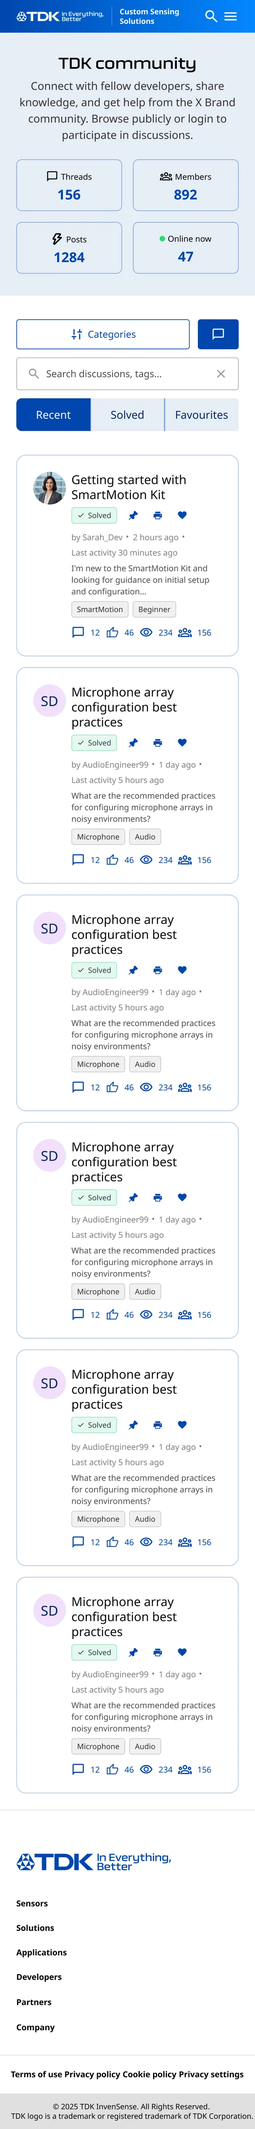
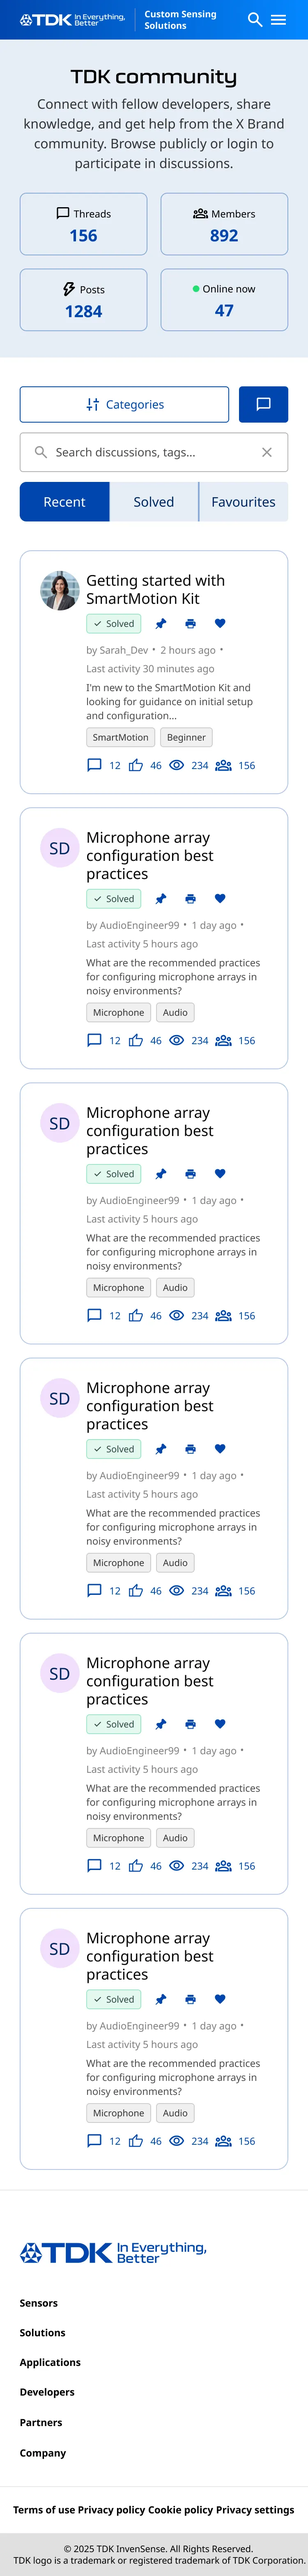
Draw every screenshot at its own size, and correct the screen count
The phone screens were being upscaled, worst of all on the product page,
which was drawn at 1240 from a 620px file: a straight 2x blow-up, and it
looked like one.

Two fixes. The phone artwork is re-exported at its native 750, and every
screenshot now carries its own width as a cap, so nothing is ever drawn
larger than the file behind it. Phone screens cap at 390, a phone's own
width, which means a retina screen gets a true 2x image and everyone else
gets a phone-sized phone rather than a poster.

Side-by-side pairs now take their column widths from the artwork, so a
phone next to a desktop reads as a phone instead of as an equal half. A
lone phone centres with its caption rather than stranding it against a
wall of white.

The study also claimed five templates. Five is how many are shown; the
redesign ran to more than thirty screens at three breakpoints. The stat
is corrected and two places now say outright that this is a selection,
with the live site named as the only place to see all of it.

Typography names the real faces: Obvia Expanded for headings, Noto Sans
for text.

Claude-Session: https://claude.ai/code/session_01GRCUht8Xs69ANeh7eZUP1Q

diff --git a/assets/js/data.js b/assets/js/data.js
@@ -342,9 +342,12 @@ const PROJECTS = [
       {
         kind: 'text',
         title: 'Wireframes: structure before surface',
+        note: 'What follows is a selection, not the set.',
+        noteArt: 'arrow-loop',
         body: [
           'Every page was resolved in greyscale first. No colour, no photography, no brand: just the order of the information and the weight each block carries. It is much easier to argue about whether the stats band should sit above the applications grid when nothing on the page is pretty enough to defend on other grounds.',
-          'These went through several rounds with the client and through usability testing before a single colour was applied.'
+          'These went through several rounds with the client and through usability testing before a single colour was applied.',
+          'The redesign ran to more than thirty screens across the site, at three breakpoints each. What is shown from here on is a handful of the templates that carry the most of the thinking: the homepage, the two application layouts, product detail and the developer community. The whole thing is on the live site, linked at the end.'
         ]
       },
       { kind: 'full', src: 'assets/img/projects/tdk/wf-home.webp', caption: 'Homepage wireframe: hero, proof, application discovery, role selection, sensor selector', frame: 'plain', long: true },
@@ -369,14 +372,14 @@ const PROJECTS = [
       {
         kind: 'typescale',
         title: 'Typography',
-        note: 'Two grotesques from the TDK brand set: a geometric face for display, a neutral one for text. The sizes below are the desktop scale as it shipped, at 1440. Specimens here are set in the portfolio’s own fallback stack, so what you are judging is the scale and the weight relationships, not the letterforms.',
+        note: 'Two faces. Obvia Expanded carries the headings: a wide geometric with enough character to hold a page that is otherwise all specification. Noto Sans does everything that has to be read rather than scanned, and it covers the scripts a global catalogue needs. Sizes below are the desktop scale as it shipped, at 1440. The specimens are set in the portfolio’s own stack, so what you are judging here is the scale and the weight relationships, not the letterforms.',
         items: [
-          { role: 'Display', spec: '44 / 56 · 600', px: 44, weight: 600, lh: 1.25, sample: 'Applications powered by smart sensors' },
-          { role: 'Section heading', spec: '30 / 40 · 700', px: 30, weight: 700, lh: 1.3, sample: 'Driving measurable success' },
-          { role: 'Sub heading', spec: '20 / 28 · 700', px: 20, weight: 700, lh: 1.35, sample: 'Product spotlight' },
-          { role: 'Card title', spec: '16 / 24 · 700', px: 16, weight: 700, lh: 1.4, sample: 'InvenSense ICM-42688-P' },
-          { role: 'Body', spec: '14 / 22 · 400', px: 14, weight: 400, lh: 1.6, sample: 'A six-axis MEMS motion sensor family with the world’s first BalancedGyro technology and lowest power consumption.' },
-          { role: 'Label and chip', spec: '12 / 16 · 600', px: 12, weight: 600, lh: 1.4, sample: 'Recommended sensors' }
+          { role: 'Display', spec: 'Obvia Expanded · 44 / 56 · 600', px: 44, weight: 600, lh: 1.25, sample: 'Applications powered by smart sensors' },
+          { role: 'Section heading', spec: 'Obvia Expanded · 30 / 40 · 700', px: 30, weight: 700, lh: 1.3, sample: 'Driving measurable success' },
+          { role: 'Sub heading', spec: 'Obvia Expanded · 20 / 28 · 700', px: 20, weight: 700, lh: 1.35, sample: 'Product spotlight' },
+          { role: 'Card title', spec: 'Noto Sans · 16 / 24 · 700', px: 16, weight: 700, lh: 1.4, sample: 'InvenSense ICM-42688-P' },
+          { role: 'Body', spec: 'Noto Sans · 14 / 22 · 400', px: 14, weight: 400, lh: 1.6, sample: 'A six-axis MEMS motion sensor family with the world’s first BalancedGyro technology and lowest power consumption.' },
+          { role: 'Label and chip', spec: 'Noto Sans · 12 / 16 · 600', px: 12, weight: 600, lh: 1.4, sample: 'Recommended sensors' }
         ]
       },
       {
@@ -485,7 +488,7 @@ const PROJECTS = [
         kind: 'duo',
         items: [
           { src: 'assets/img/projects/tdk/ui-applications-desktop.webp', caption: 'Applications landing at 1440' },
-          { src: 'assets/img/projects/tdk/ui-applications-mobile.webp', caption: 'The same page at 375: grid becomes carousel, buttons go full width' }
+          { src: 'assets/img/projects/tdk/ui-applications-mobile.webp', device: 'mobile', caption: 'The same page at 375: grid becomes carousel, buttons go full width' }
         ],
         long: true
       },
@@ -493,7 +496,7 @@ const PROJECTS = [
         kind: 'duo',
         items: [
           { src: 'assets/img/projects/tdk/ui-application-detail-desktop.webp', caption: 'Application detail at 1440: one application, end to end' },
-          { src: 'assets/img/projects/tdk/ui-application-detail-mobile.webp', caption: 'Application detail at 375' }
+          { src: 'assets/img/projects/tdk/ui-application-detail-mobile.webp', device: 'mobile', caption: 'Application detail at 375' }
         ],
         long: true
       },
@@ -501,11 +504,11 @@ const PROJECTS = [
         kind: 'duo',
         items: [
           { src: 'assets/img/projects/tdk/ui-community-desktop.webp', caption: 'Developer community at 1440: filter rail, thread list, solved state' },
-          { src: 'assets/img/projects/tdk/ui-community-mobile.webp', caption: 'Community at 375: the rail collapses into a filter control' }
+          { src: 'assets/img/projects/tdk/ui-community-mobile.webp', device: 'mobile', caption: 'Community at 375: the rail collapses into a filter control' }
         ],
         long: true
       },
-      { kind: 'full', src: 'assets/img/projects/tdk/ui-product-mobile.webp', caption: 'Product detail at 375: variants, specs, features, documentation and support, in one scroll', frame: 'plain', long: true },
+      { kind: 'full', src: 'assets/img/projects/tdk/ui-product-mobile.webp', device: 'mobile', caption: 'Product detail at 375: variants, specs, features, documentation and support, in one scroll', long: true },
 
       /* ---------- decisions ---------- */
       {
@@ -524,7 +527,7 @@ const PROJECTS = [
       {
         kind: 'stats',
         items: [
-          { figure: '5', label: 'templates redesigned end to end' },
+          { figure: '30+', label: 'screens designed across the site' },
           { figure: '3', label: 'breakpoints drawn, not derived' },
           { figure: '8', label: 'months, delivered ahead of schedule' }
         ]
@@ -536,7 +539,7 @@ const PROJECTS = [
         kind: 'live',
         eyebrow: 'It shipped',
         title: 'See it in the wild',
-        body: 'The redesign is live. The structure, the component library and the responsive behaviour described above are all running in production.',
+        body: 'The redesign is live, and it is the only place to see all of it. This case study shows a handful of templates out of more than thirty screens; the structure, the component library and the responsive behaviour described above are all running in production.',
         label: 'Open invensense.tdk.com',
         href: 'https://www.invensense.tdk.com/en-us'
       }

diff --git a/assets/js/img-sizes.js b/assets/js/img-sizes.js
@@ -1,2 +1,2 @@
 /* generated by scripts/image_sizes.py — intrinsic sizes, so lazy images reserve their box */
-window.IMG_SIZES = {"assets/img/clients/abbott.png":[640,161],"assets/img/clients/cea.png":[640,131],"assets/img/clients/disney-store.png":[640,178],"assets/img/clients/onmed.png":[500,148],"assets/img/clients/parle.png":[200,88],"assets/img/clients/popular.png":[454,84],"assets/img/covers/disney-store.webp":[1600,900],"assets/img/covers/pregnancy-app.webp":[1600,900],"assets/img/covers/tdk-invensense.webp":[1600,900],"assets/img/favicon.png":[128,128],"assets/img/life/colouring-book.webp":[900,1200],"assets/img/life/digital-illustration.webp":[1155,1200],"assets/img/life/event-install.webp":[1200,900],"assets/img/life/framed-portraits.webp":[1200,900],"assets/img/life/mountains.webp":[1200,900],"assets/img/life/muskan-bio.webp":[825,1100],"assets/img/life/painting-signage.webp":[900,1200],"assets/img/life/vacation-sign.webp":[900,1200],"assets/img/projects/capshift-01.jpg":[1440,900],"assets/img/projects/capshift-02.jpg":[1440,900],"assets/img/projects/capshift-03.jpg":[1440,900],"assets/img/projects/capshift-04.jpg":[1440,900],"assets/img/projects/mama-01.jpg":[1500,1009],"assets/img/projects/mama-02.jpg":[1500,842],"assets/img/projects/mama-03.jpg":[1500,842],"assets/img/projects/mama-04.jpg":[1300,1657],"assets/img/projects/mama-05.jpg":[390,2497],"assets/img/projects/mama-06.jpg":[390,1622],"assets/img/projects/mama-07.jpg":[390,1333],"assets/img/projects/mama-08.jpg":[390,844],"assets/img/projects/mama-09.jpg":[390,844],"assets/img/projects/parle-01.jpg":[700,1555],"assets/img/projects/parle-02.jpg":[700,1555],"assets/img/projects/parle-03.jpg":[600,1333],"assets/img/projects/parle-04.jpg":[700,1555],"assets/img/projects/parle-05.jpg":[700,1555],"assets/img/projects/popular-01.jpg":[700,1514],"assets/img/projects/popular-02.jpg":[700,1514],"assets/img/projects/popular-03.jpg":[700,1514],"assets/img/projects/popular-04.jpg":[700,1514],"assets/img/projects/popular-05.jpg":[700,1514],"assets/img/projects/tdk/ds-badges.webp":[854,944],"assets/img/projects/tdk/ds-buttons.webp":[940,2788],"assets/img/projects/tdk/ds-checkboxes.webp":[844,1324],"assets/img/projects/tdk/ds-homepage-components.webp":[792,1868],"assets/img/projects/tdk/ds-iconography.webp":[980,1597],"assets/img/projects/tdk/ds-microinteractions.webp":[1042,470],"assets/img/projects/tdk/ds-textinput.webp":[980,1239],"assets/img/projects/tdk/ui-application-detail-desktop.webp":[1240,7683],"assets/img/projects/tdk/ui-application-detail-mobile.webp":[620,11691],"assets/img/projects/tdk/ui-applications-desktop.webp":[1240,5194],"assets/img/projects/tdk/ui-applications-mobile.webp":[620,7207],"assets/img/projects/tdk/ui-community-desktop.webp":[1240,2773],"assets/img/projects/tdk/ui-community-mobile.webp":[620,5170],"assets/img/projects/tdk/ui-product-mobile.webp":[620,11978],"assets/img/projects/tdk/wf-application-detail.webp":[1080,8341],"assets/img/projects/tdk/wf-applications.webp":[1080,5314],"assets/img/projects/tdk/wf-community.webp":[1080,2413],"assets/img/projects/tdk/wf-home.webp":[1080,3799],"assets/img/projects/tdk/wf-product.webp":[1080,5564]};
+window.IMG_SIZES = {"assets/img/clients/abbott.png":[640,161],"assets/img/clients/cea.png":[640,131],"assets/img/clients/disney-store.png":[640,178],"assets/img/clients/onmed.png":[500,148],"assets/img/clients/parle.png":[200,88],"assets/img/clients/popular.png":[454,84],"assets/img/covers/disney-store.webp":[1600,900],"assets/img/covers/pregnancy-app.webp":[1600,900],"assets/img/covers/tdk-invensense.webp":[1600,900],"assets/img/favicon.png":[128,128],"assets/img/life/colouring-book.webp":[900,1200],"assets/img/life/digital-illustration.webp":[1155,1200],"assets/img/life/event-install.webp":[1200,900],"assets/img/life/framed-portraits.webp":[1200,900],"assets/img/life/mountains.webp":[1200,900],"assets/img/life/muskan-bio.webp":[825,1100],"assets/img/life/painting-signage.webp":[900,1200],"assets/img/life/vacation-sign.webp":[900,1200],"assets/img/projects/capshift-01.jpg":[1440,900],"assets/img/projects/capshift-02.jpg":[1440,900],"assets/img/projects/capshift-03.jpg":[1440,900],"assets/img/projects/capshift-04.jpg":[1440,900],"assets/img/projects/mama-01.jpg":[1500,1009],"assets/img/projects/mama-02.jpg":[1500,842],"assets/img/projects/mama-03.jpg":[1500,842],"assets/img/projects/mama-04.jpg":[1300,1657],"assets/img/projects/mama-05.jpg":[390,2497],"assets/img/projects/mama-06.jpg":[390,1622],"assets/img/projects/mama-07.jpg":[390,1333],"assets/img/projects/mama-08.jpg":[390,844],"assets/img/projects/mama-09.jpg":[390,844],"assets/img/projects/parle-01.jpg":[700,1555],"assets/img/projects/parle-02.jpg":[700,1555],"assets/img/projects/parle-03.jpg":[600,1333],"assets/img/projects/parle-04.jpg":[700,1555],"assets/img/projects/parle-05.jpg":[700,1555],"assets/img/projects/popular-01.jpg":[700,1514],"assets/img/projects/popular-02.jpg":[700,1514],"assets/img/projects/popular-03.jpg":[700,1514],"assets/img/projects/popular-04.jpg":[700,1514],"assets/img/projects/popular-05.jpg":[700,1514],"assets/img/projects/tdk/ds-badges.webp":[854,944],"assets/img/projects/tdk/ds-buttons.webp":[940,2788],"assets/img/projects/tdk/ds-checkboxes.webp":[844,1324],"assets/img/projects/tdk/ds-homepage-components.webp":[792,1868],"assets/img/projects/tdk/ds-iconography.webp":[980,1597],"assets/img/projects/tdk/ds-microinteractions.webp":[1042,470],"assets/img/projects/tdk/ds-textinput.webp":[980,1239],"assets/img/projects/tdk/ui-application-detail-desktop.webp":[1240,7683],"assets/img/projects/tdk/ui-application-detail-mobile.webp":[750,14142],"assets/img/projects/tdk/ui-applications-desktop.webp":[1240,5194],"assets/img/projects/tdk/ui-applications-mobile.webp":[750,8718],"assets/img/projects/tdk/ui-community-desktop.webp":[1240,2773],"assets/img/projects/tdk/ui-community-mobile.webp":[750,6254],"assets/img/projects/tdk/ui-product-mobile.webp":[750,14489],"assets/img/projects/tdk/wf-application-detail.webp":[1080,8341],"assets/img/projects/tdk/wf-applications.webp":[1080,5314],"assets/img/projects/tdk/wf-community.webp":[1080,2413],"assets/img/projects/tdk/wf-home.webp":[1080,3799],"assets/img/projects/tdk/wf-product.webp":[1080,5564]};

diff --git a/assets/js/project.js b/assets/js/project.js
@@ -34,6 +34,30 @@
       '"' + dims(P.cover) + ' alt="' + E(P.title + ', ' + P.category) + '" decoding="async"></figure>';
   }
 
+  /* No screenshot is ever drawn larger than the file behind it, which is
+     what was pixelating the phone screens. Phone artwork is capped at a
+     phone's own width: it was exported at 2x, so drawing it at 390 gives a
+     retina screen a true 2x image and everyone else a phone-sized phone. */
+  var PHONE_CAP = 390;
+  function capWidth(src, device) {
+    var d = (window.IMG_SIZES || {})[src];
+    var natural = d ? d[0] : 0;
+    if (device === 'mobile') return Math.min(PHONE_CAP, natural || PHONE_CAP);
+    return natural || 0;
+  }
+  function capStyle(src, device) {
+    var w = capWidth(src, device);
+    return w ? ' style="--shotw:' + w + 'px"' : '';
+  }
+
+  /* Two screens side by side get columns in proportion to the artwork, so a
+     phone next to a desktop reads as a phone rather than as an equal half. */
+  function duoCols(items) {
+    var ws = items.map(function (it) { return capWidth(it.src, it.device); });
+    if (ws.length !== 2 || ws.some(function (w) { return !w; })) return '';
+    return ' style="--cols:' + ws[0] + 'fr ' + ws[1] + 'fr"';
+  }
+
   /* A tall screenshot sits in a scroll box. That box has to be reachable
      from the keyboard, or everything below the fold of it is mouse-only. */
   function scrollable(isLong, label) {
@@ -158,9 +182,10 @@
     },
 
     full: function (b) {
-      return '<figure class="blk reveal">' +
+      return '<figure class="blk' + (b.device === 'mobile' ? ' blk--phone' : '') + ' reveal">' +
         '<div class="shot' + (b.frame === 'plain' ? ' shot--plain' : '') +
-          (b.long ? ' shot--long' : '') + '"' + scrollable(b.long, b.caption) + '>' +
+          (b.long ? ' shot--long' : '') + '"' + capStyle(b.src, b.device) +
+          scrollable(b.long, b.caption) + '>' +
           '<img src="' + b.src + '"' + dims(b.src) + ' alt="' + E(b.caption || '') + '" loading="lazy" decoding="async">' +
         '</div>' +
         (b.caption ? '<figcaption>' + E(b.caption) + '</figcaption>' : '') +
@@ -168,9 +193,10 @@
     },
 
     duo: function (b) {
-      return '<section class="blk duo reveal">' + (b.items || []).map(function (it) {
+      return '<section class="blk duo reveal"' + duoCols(b.items || []) + '>' +
+        (b.items || []).map(function (it) {
         return '<figure><div class="shot' + (b.long ? ' shot--long' : '') + '"' +
-          scrollable(b.long, it.caption) + '>' +
+          capStyle(it.src, it.device) + scrollable(b.long, it.caption) + '>' +
           '<img src="' + it.src + '"' + dims(it.src) + ' alt="' + E(it.caption || '') + '" loading="lazy" decoding="async">' +
           '</div><figcaption>' + E(it.caption || '') + '</figcaption></figure>';
       }).join('') + '</section>';

diff --git a/assets/css/case.css b/assets/css/case.css
@@ -226,7 +226,11 @@
 }
 
 /* imagery */
+/* --shotw is the artwork's own width, set per image by project.js. A
+   screenshot drawn wider than its file is just a blurry screenshot. */
 .shot {
+  max-width: var(--shotw, none);
+  margin-inline: auto;
   margin: 0;
   border-radius: var(--r);
   overflow: hidden;
@@ -245,7 +249,23 @@ figure > figcaption,
   font-size: var(--t--1);
   color: var(--ink-faint);
 }
-.duo { display: grid; grid-template-columns: repeat(auto-fit, minmax(min(100%, 280px), 1fr)); gap: var(--s-4); }
+/* A lone phone screen is far narrower than the column it sits in, so it
+   and its caption centre together rather than stranding the caption
+   against a wall of white. */
+.blk--phone { display: grid; justify-items: center; }
+.blk--phone > figcaption { text-align: center; max-width: 46ch; }
+
+/* --cols is set from the two images' widths, so a phone beside a desktop
+   gets a phone's share of the row. Below 700 they stack regardless. */
+.duo {
+  display: grid;
+  grid-template-columns: var(--cols, repeat(auto-fit, minmax(min(100%, 280px), 1fr)));
+  gap: var(--s-4);
+  align-items: start;
+}
+@media (max-width: 700px) {
+  .duo { grid-template-columns: 1fr; }
+}
 .phones { display: flex; flex-wrap: wrap; justify-content: center; gap: var(--s-5); }
 .phone { width: min(280px, 60vw); }
 .phone__frame {
